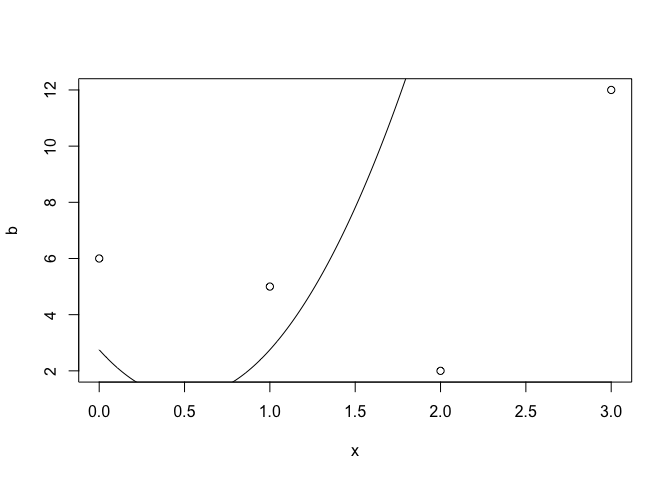
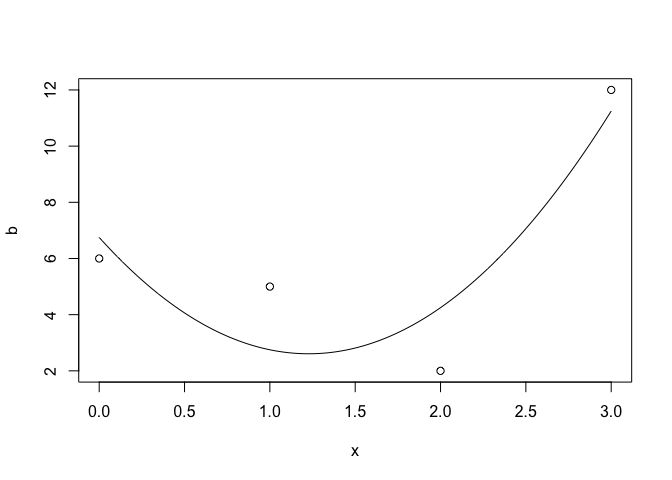
Edits to course notes

diff --git a/coursenotes/coursenotes.md b/coursenotes/coursenotes.md
@@ -1584,16 +1584,11 @@ ill-conditioned. Let’s see what happens if we sample more and more
 points from our function and construct the interpolating polynomial.
 We’ll look at *κ* for the Vandermonde matrix.
 
-    Vandermonde <- function(x){
-      n <- length(x)
-      V <- outer(x, 0:(n-1), "^")
-      return(V)
-    }
     nvals <- 2^(1:8)
     kappavals <- NULL
     for (n in nvals){
       x <- seq(from = 1, to = 3, length = n)
-      kappavals <- c(kappavals, kappa(Vandermonde(x)))
+      kappavals <- c(kappavals, kappa(vander(x)))
     }
     kable(cbind(nvals, kappavals))
 
@@ -1614,7 +1609,7 @@ kappavals
 2
 </td>
 <td style="text-align:right;">
-7.500000e+00
+6.250000e+00
 </td>
 </tr>
 <tr>
@@ -1622,7 +1617,7 @@ kappavals
 4
 </td>
 <td style="text-align:right;">
-2.491869e+03
+1.678547e+03
 </td>
 </tr>
 <tr>
@@ -1630,7 +1625,7 @@ kappavals
 8
 </td>
 <td style="text-align:right;">
-5.753630e+08
+3.218991e+08
 </td>
 </tr>
 <tr>
@@ -1638,7 +1633,7 @@ kappavals
 16
 </td>
 <td style="text-align:right;">
-4.555646e+19
+2.082142e+19
 </td>
 </tr>
 <tr>
@@ -1646,7 +1641,7 @@ kappavals
 32
 </td>
 <td style="text-align:right;">
-4.913265e+28
+2.008808e+29
 </td>
 </tr>
 <tr>
@@ -1654,7 +1649,7 @@ kappavals
 64
 </td>
 <td style="text-align:right;">
-5.173402e+44
+5.350795e+45
 </td>
 </tr>
 <tr>
@@ -1662,7 +1657,7 @@ kappavals
 128
 </td>
 <td style="text-align:right;">
-3.078066e+76
+2.740993e+76
 </td>
 </tr>
 <tr>
@@ -1670,7 +1665,7 @@ kappavals
 256
 </td>
 <td style="text-align:right;">
-5.916265e+136
+2.557774e+137
 </td>
 </tr>
 </tbody>
@@ -1705,10 +1700,10 @@ If we expand out our Lagrange polynomial we find
 
     x <- c(1,2,3,4)
     y <- c(10,6,4,10)
-    c <- solve(Vandermonde(x), y)
+    c <- solve(vander(x), y)
     c
 
-    ## [1] 10  4 -5  1
+    ## [1]  1 -5  4 10
 
 Following the pattern we established above, the Lagrange polynomial for
 points
@@ -2574,17 +2569,19 @@ Let’s calculuate this in `R`.
     ## [3,] 137.0
     ## [4,] 153.5
 
-    dot(r,a0)
+    t(r) %*% a0
 
-    ## [1] 1.84741111298e-13
+    ##              [,1]
+    ## [1,] 1.847411e-13
 
-    dot(r,a1)
+    t(r) %*% a1
 
-    ## [1] 8.81072992343e-13
+    ##             [,1]
+    ## [1,] 8.81073e-13
 
-    plot(a1,b,xlab="advertising",ylab="sales")
-    xx <- seq(from=0,to=6,length=200)
-    lines(xx,horner(as.numeric(x),xx)$y)
+    plot(a1, b, xlab = "advertising", ylab = "sales")
+    xx <- seq(from = 0, to = 6, length = 200)
+    lines(xx, horner(as.numeric(x), xx)$y)
 
 ![](coursenotes_files/figure-markdown_strict/unnamed-chunk-47-1.png)
 
@@ -2614,6 +2611,7 @@ where our unknown is the vector
 Though *x* appears nonlinearly, the coefficients *c*<sub>0, 1, 2</sub>
 don’t, so we are fine! Let’s solve this problem using linear algebra. We
 want to solve
+
 $$
 \begin{align}
 c\_0 + c\_1 \cdot 0 + c\_2 \cdot 0^2 &= 6 \\\\
@@ -2622,10 +2620,11 @@ c\_0 + c\_1 \cdot 2 + c\_2 \cdot 2^2 &= 2 \\\\
 c\_0 + c\_1 \cdot 3 + c\_2 \cdot 3^2 &= 2
 \end{align}
 $$
+
 So, we calculuate in `R`:
 
     x <- c(0,1,2,3)
-    A <- matrix(cbind(x^0,x^1,x^2),nrow=4)
+    A <- vander(x)[,2:4]
     b <- c(6,5,2,12)
     pseudoinv <- solve(t(A) %*% A) %*% t(A)
     c <- pseudoinv %*% b
@@ -2634,13 +2633,13 @@ So, we calculuate in `R`:
     print(c)
 
     ##       [,1]
-    ## [1,]  6.75
+    ## [1,]  2.75
     ## [2,] -6.75
-    ## [3,]  2.75
+    ## [3,]  6.75
 
     plot(x,b)
-    xx <- seq(from=0,to=3,length=200)
-    lines(xx,horner(c,xx)$y)
+    xx <- seq(from = 0, to = 3, length = 200)
+    lines(xx, horner(c,xx)$y)
 
 ![](coursenotes_files/figure-markdown_strict/unnamed-chunk-48-1.png)
 
@@ -2678,9 +2677,9 @@ analyzing the error.
 Adopting a least squares approach allows, potentially, massive
 compression of data. Suppose we had 100 points that looked like this
 
-    x <- seq(from=0,to=1,length=100)
-    y <- 3*x + 0.4*(2*runif(100)-1)
-    plot(x,y)
+    x <- seq(from = 0, to = 1, length = 100)
+    y <- 3*x + 0.4*(2*runif(100) - 1)
+    plot(x, y)
 
 ![](coursenotes_files/figure-markdown_strict/unnamed-chunk-49-1.png)
 
@@ -2695,16 +2694,21 @@ problems, but there’s another way to get the same result: optimization.
 We can start directly with the square of the norm of the residual vector
 (a factor of 1/2 is included for algebraic convenience, but it doesn’t
 change the result):
+
 $$
 \frac{1}{2}||\mathbf{r}||^2 = \frac{1}{2}||\mathbf{A}\mathbf{x}-\mathbf{b}||^2.
 $$
+
 More formally, we can define the scalar **objective function**
 $$
 f(\mathbf{x}) = \frac{1}{2} ||\mathbf{A}\mathbf{x}-\mathbf{b}||^2
 $$
+
 and define our least squares solution **x**<sub>*L**S*</sub>as the value
 of **x** that minimizes this objective function, that is,
+
 **x**<sub>*L**S*</sub> = arg min<sub>**x**</sub>*f*(**x**).
+
 Now you know where the terminology least squares comes from! We can
 apply calculus to minimize this expression and the normal equations will
 result. This is a problem on your in-class exercise and your homework,
